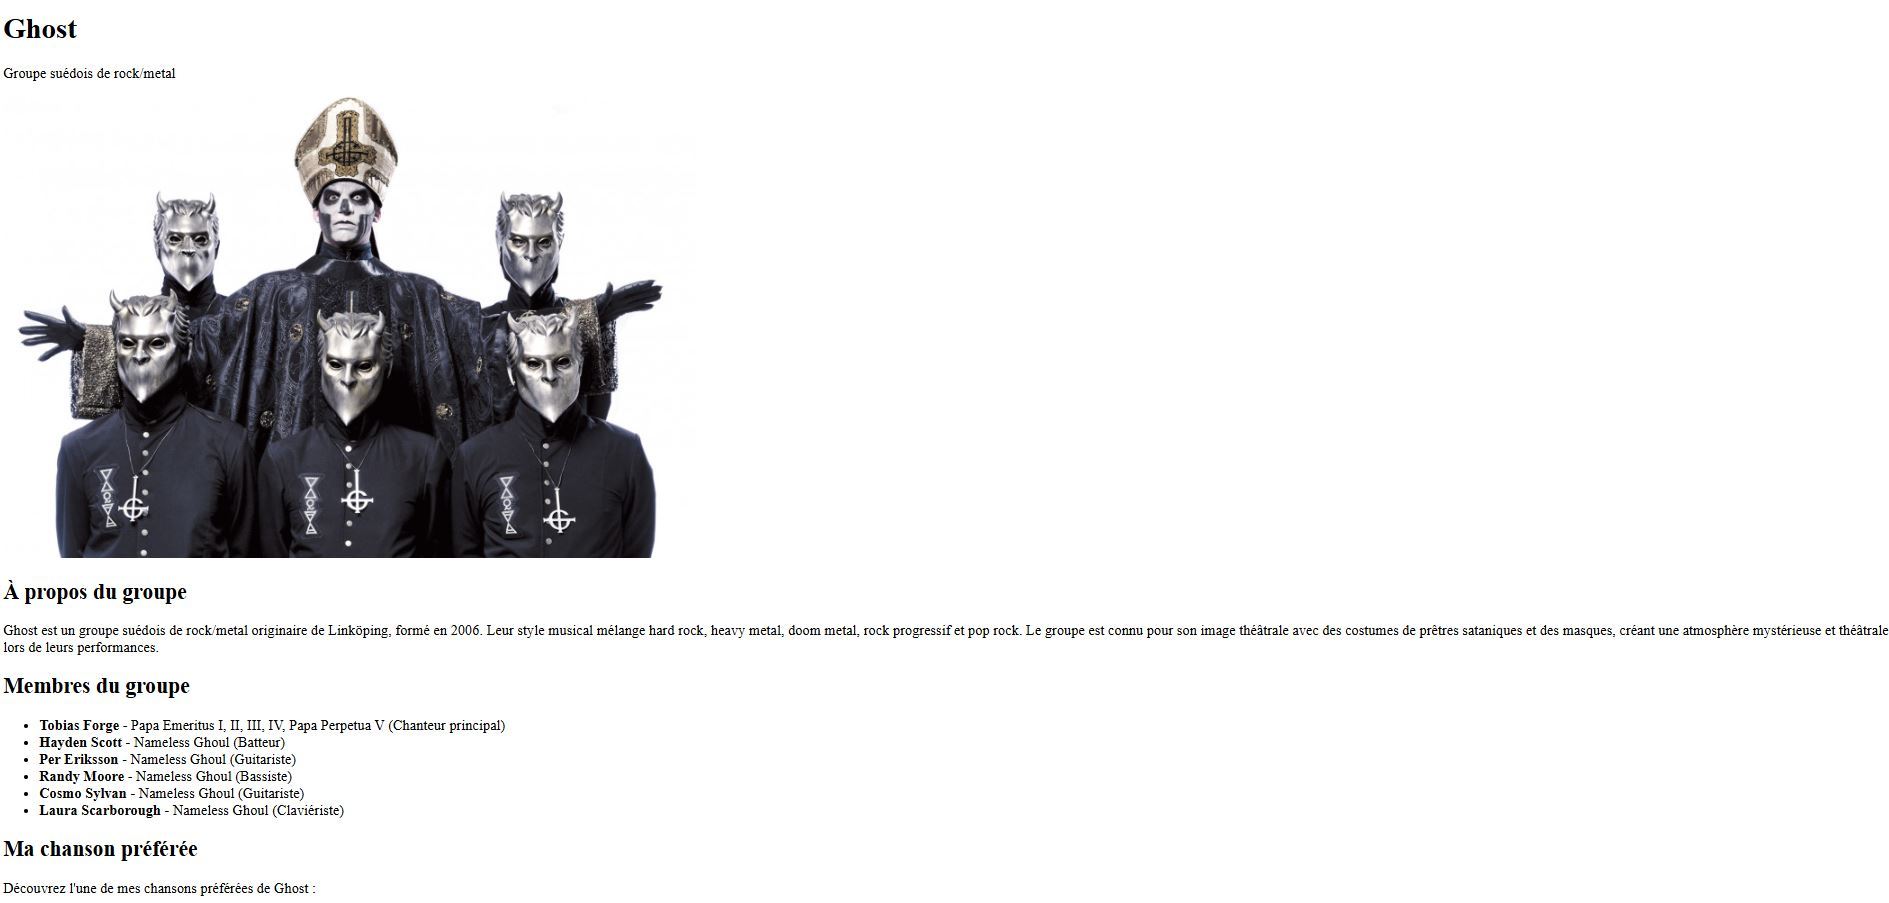
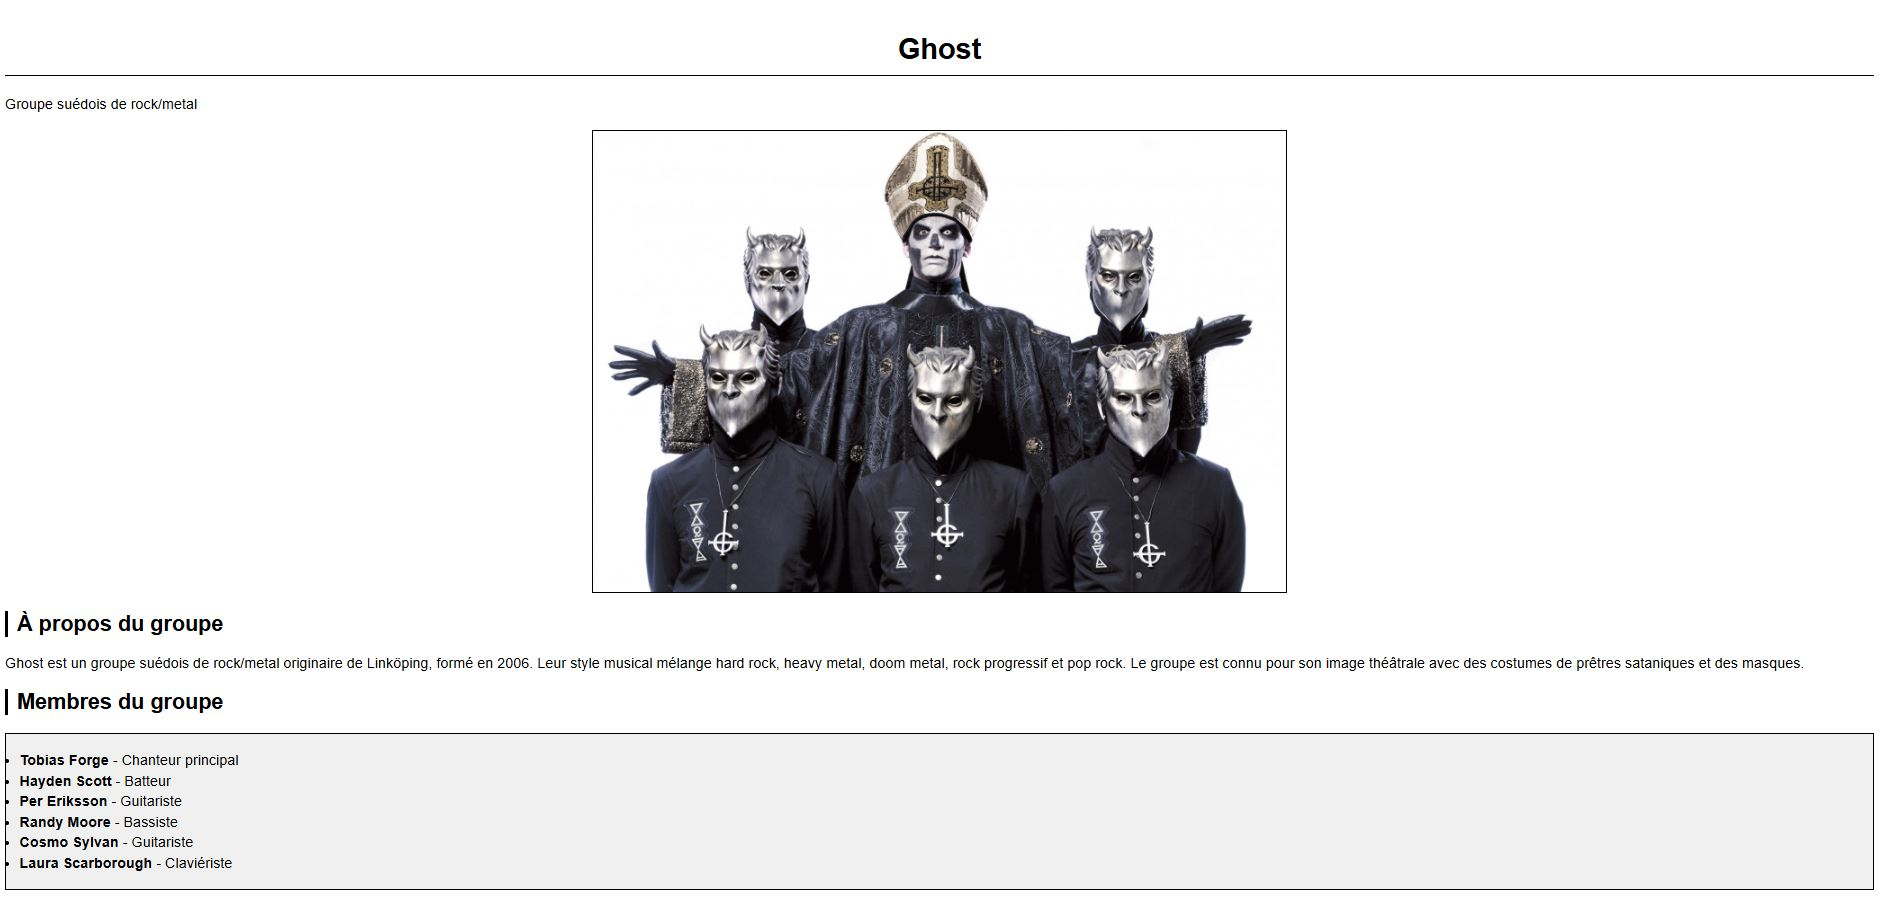
✅ Exercice 3- OK

Changed region(s): [[0.0, 0.093, 1.0, 0.9922], [0.0, 0.0, 0.1235, 0.124], [0.463, 0.031, 0.5247, 0.093]]

diff --git a/Exercice3/style.css b/Exercice3/style.css
@@ -1,0 +1,5 @@
+p {
+    color: blue;
+    font-family: Arial, sans-serif;
+    font-size: 16px;
+}

diff --git a/Exercice3/instructions-et-resulats.md b/Exercice3/instructions-et-resulats.md
@@ -1,5 +1,13 @@
-# Instructions
+# Instructions et Résultats
+
+## Instructions
 
 **Ajoutez** un fichier de style CSS qui change la couleur du texte dans la balise `<p>` en bleu, la police en Arial et la taille du texte en 16px.
 
 > Si vous avez des difficultés, vous pouvez vous référer à la partie 2 du cours [Créez votre site web avec HTML5 et CSS3](https://openclassrooms.com/fr/courses/1603881-creez-votre-site-web-avec-html5-et-css3/8061278-integrez-le-css-dans-la-page-html).
+
+## Résultat
+
+Voici le rendu de la page web :
+
+![Rendu de l'exercice 3](Rendu.JPG)
